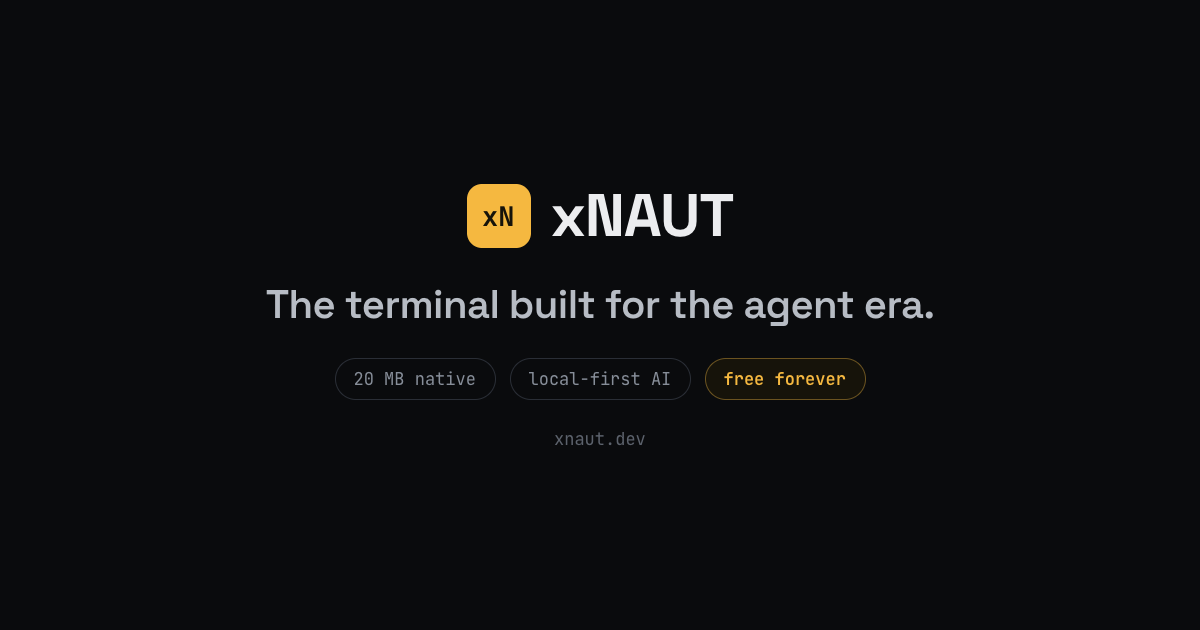
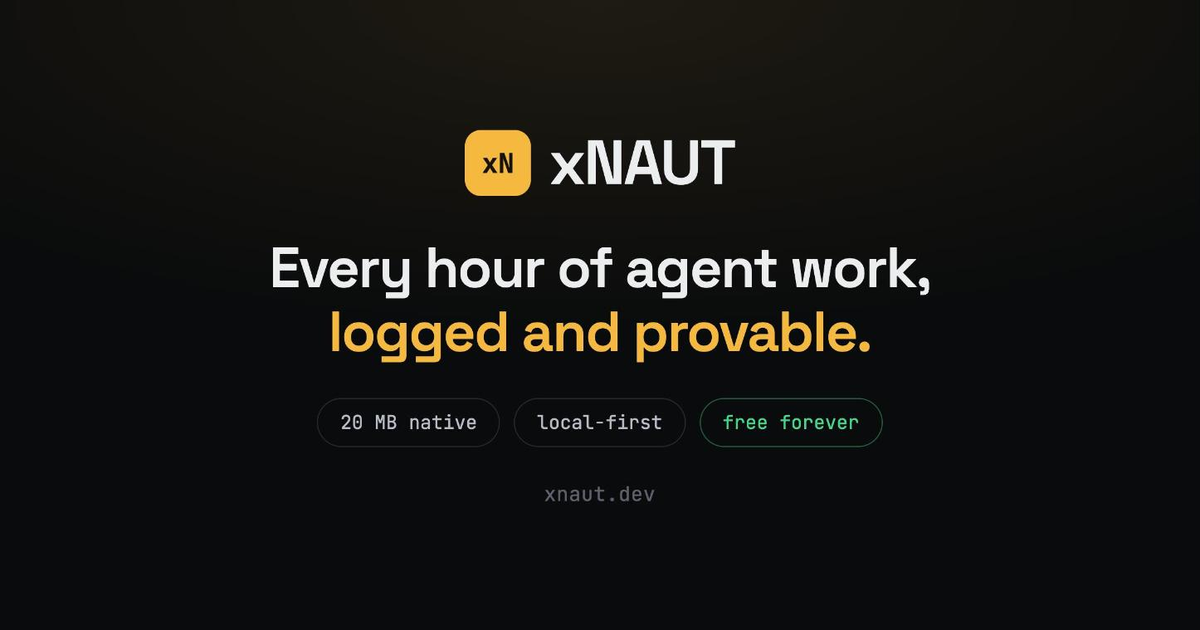
fix: regenerate social card on the proof-of-work positioning
The card still read 'The terminal built for the agent era' while every meta
tag and the page itself had moved on. Adds assets/og.html as the source so
it can be re-shot instead of redrawn.

Changed region(s): [[0.2158, 0.181, 0.7708, 0.6937], [0.4317, 0.6635, 0.555, 0.7238], [0.4625, 0.754, 0.555, 0.8143]]

diff --git a/assets/og.html b/assets/og.html
@@ -1,0 +1,56 @@
+<!doctype html>
+<meta charset="utf-8">
+<title>xNAUT OG card source</title>
+<!--
+  Source for assets/og.png (1200x630 social card).
+  To re-shoot: serve the website root, open /assets/og.html at a 1200x630
+  viewport, screenshot, and save over assets/og.png.
+-->
+<style>
+  @font-face { font-family:'Space Grotesk'; src:url('../fonts/space-grotesk.woff2') format('woff2'); font-weight:300 700; }
+  @font-face { font-family:'JetBrains Mono'; src:url('../fonts/jetbrains-mono.woff2') format('woff2'); font-weight:100 800; }
+
+  html,body { margin:0; padding:0; background:#0A0B0D; }
+  .card {
+    width:1200px; height:630px; box-sizing:border-box;
+    background:#0A0B0D; color:#ECEDEF;
+    font-family:'Space Grotesk', system-ui, sans-serif;
+    display:flex; flex-direction:column; align-items:center; justify-content:center;
+    gap:34px; text-align:center;
+    /* faint amber wash so the card is not a flat black rectangle in a timeline */
+    background-image:radial-gradient(120% 85% at 50% 0%, rgba(245,184,64,.09), transparent 62%);
+  }
+  .brand { display:flex; align-items:center; gap:18px; }
+  .mark {
+    width:66px; height:66px; border-radius:16px; background:#F5B840; color:#16130A;
+    display:grid; place-items:center;
+    font-family:'JetBrains Mono', monospace; font-size:27px; font-weight:700;
+  }
+  .word { font-size:62px; font-weight:600; letter-spacing:-.03em; }
+  h1 {
+    margin:0; font-size:56px; font-weight:600; line-height:1.14; letter-spacing:-.025em;
+    max-width:19ch;
+  }
+  h1 em { font-style:normal; color:#F5B840; }
+  .chips { display:flex; gap:14px; }
+  .chip {
+    font-family:'JetBrains Mono', monospace; font-size:19px; color:#B7BCC4;
+    border:1px solid #262A31; border-radius:999px; padding:11px 22px;
+  }
+  .chip.on { color:#3DD68C; border-color:rgba(61,214,140,.42); }
+  .url { font-family:'JetBrains Mono', monospace; font-size:20px; color:#5C626C; letter-spacing:.02em; }
+</style>
+
+<div class="card">
+  <div class="brand">
+    <span class="mark">xN</span>
+    <span class="word">xNAUT</span>
+  </div>
+  <h1>Every hour of agent work,<br><em>logged and provable.</em></h1>
+  <div class="chips">
+    <span class="chip">20&nbsp;MB native</span>
+    <span class="chip">local-first</span>
+    <span class="chip on">free forever</span>
+  </div>
+  <div class="url">xnaut.dev</div>
+</div>
